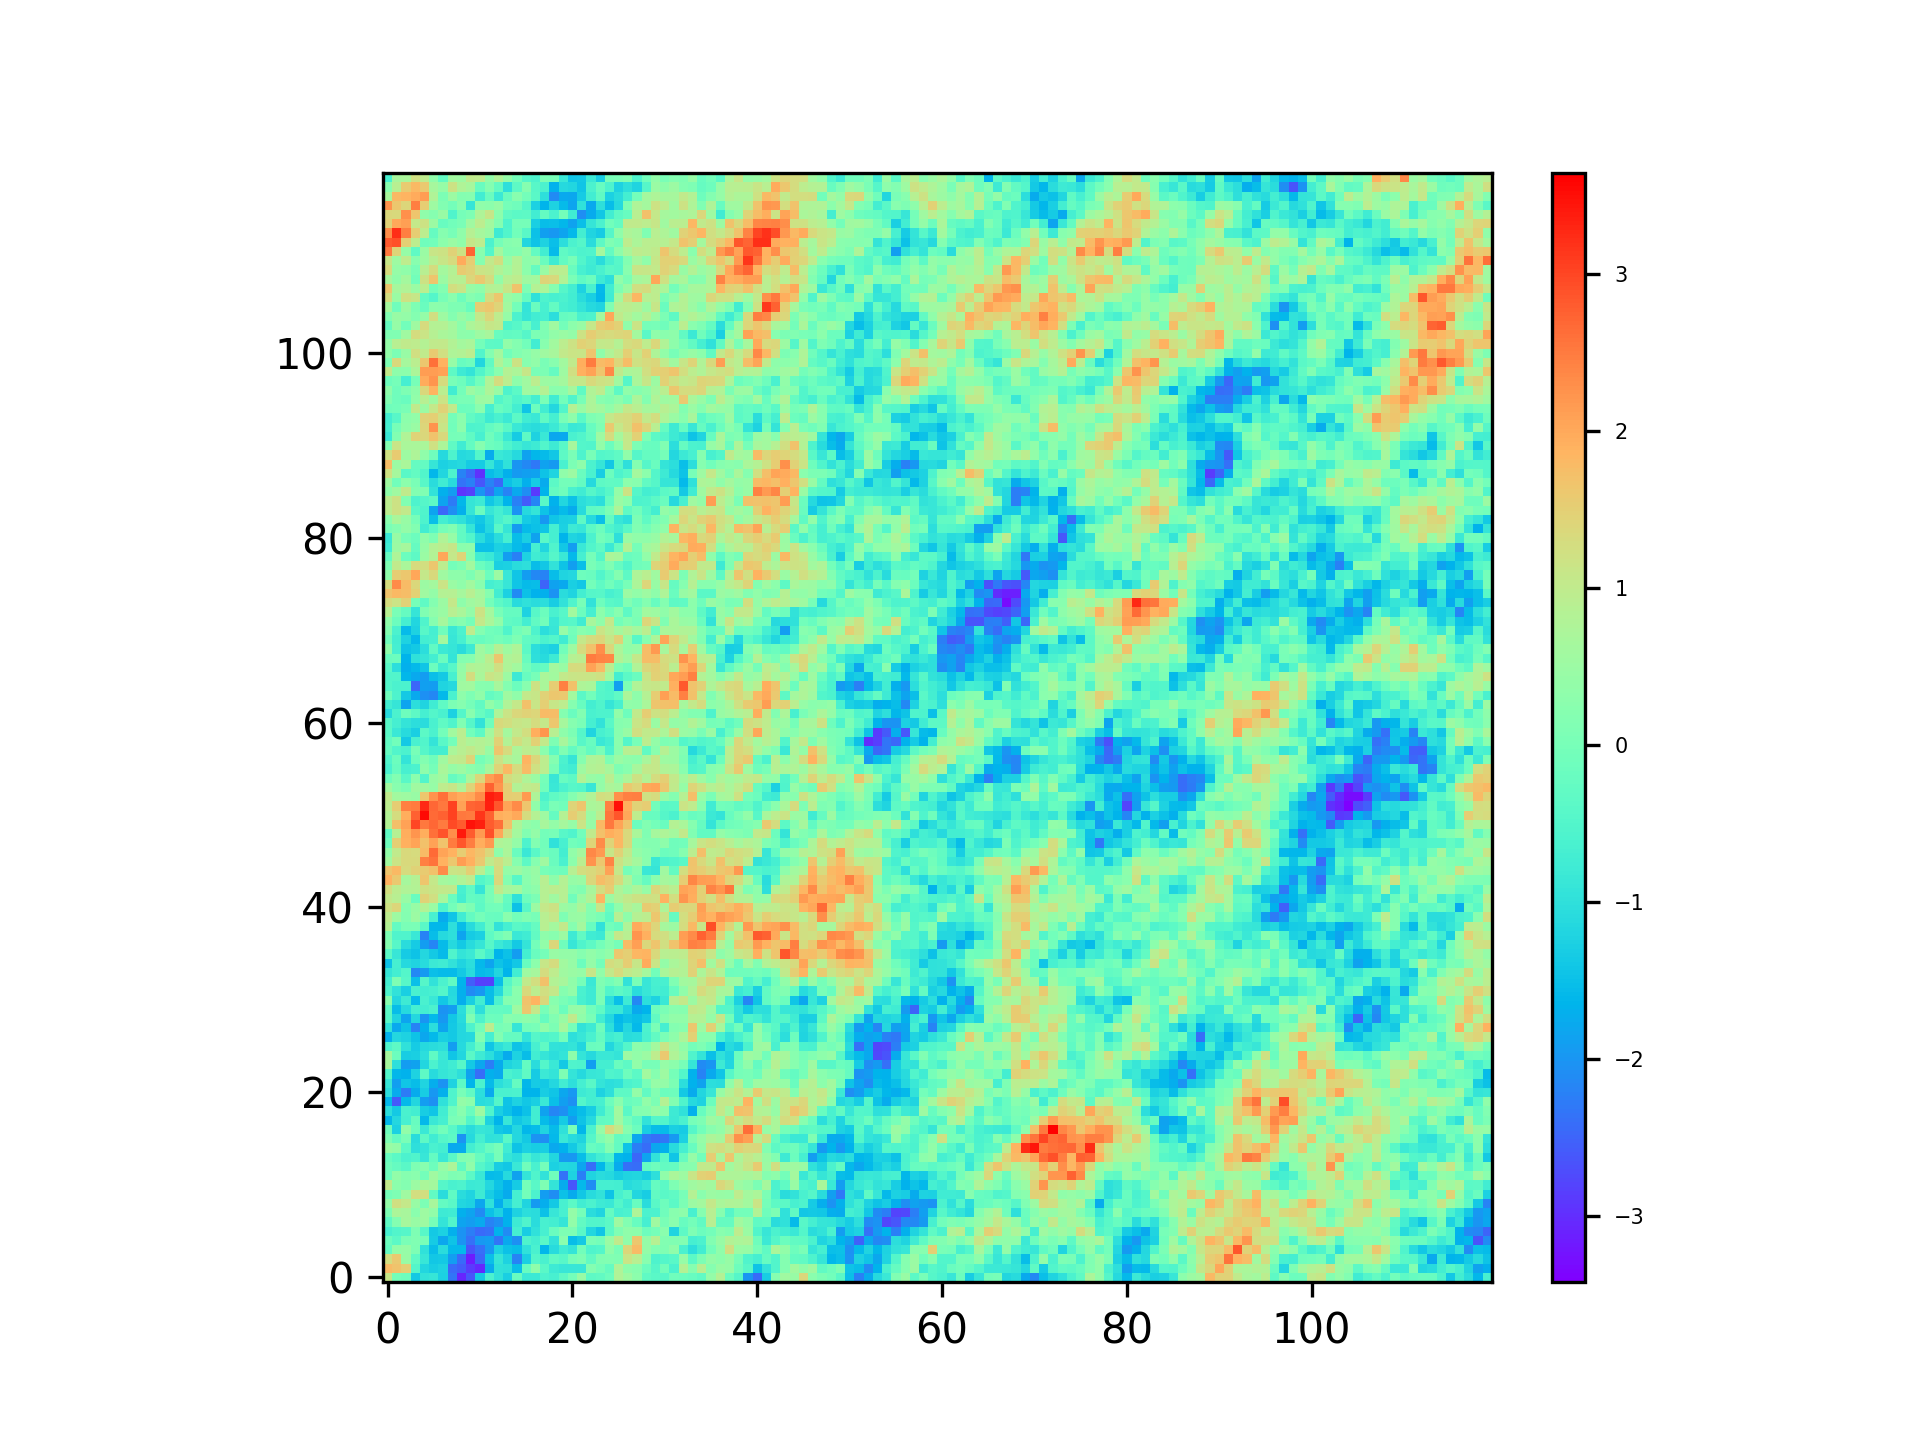
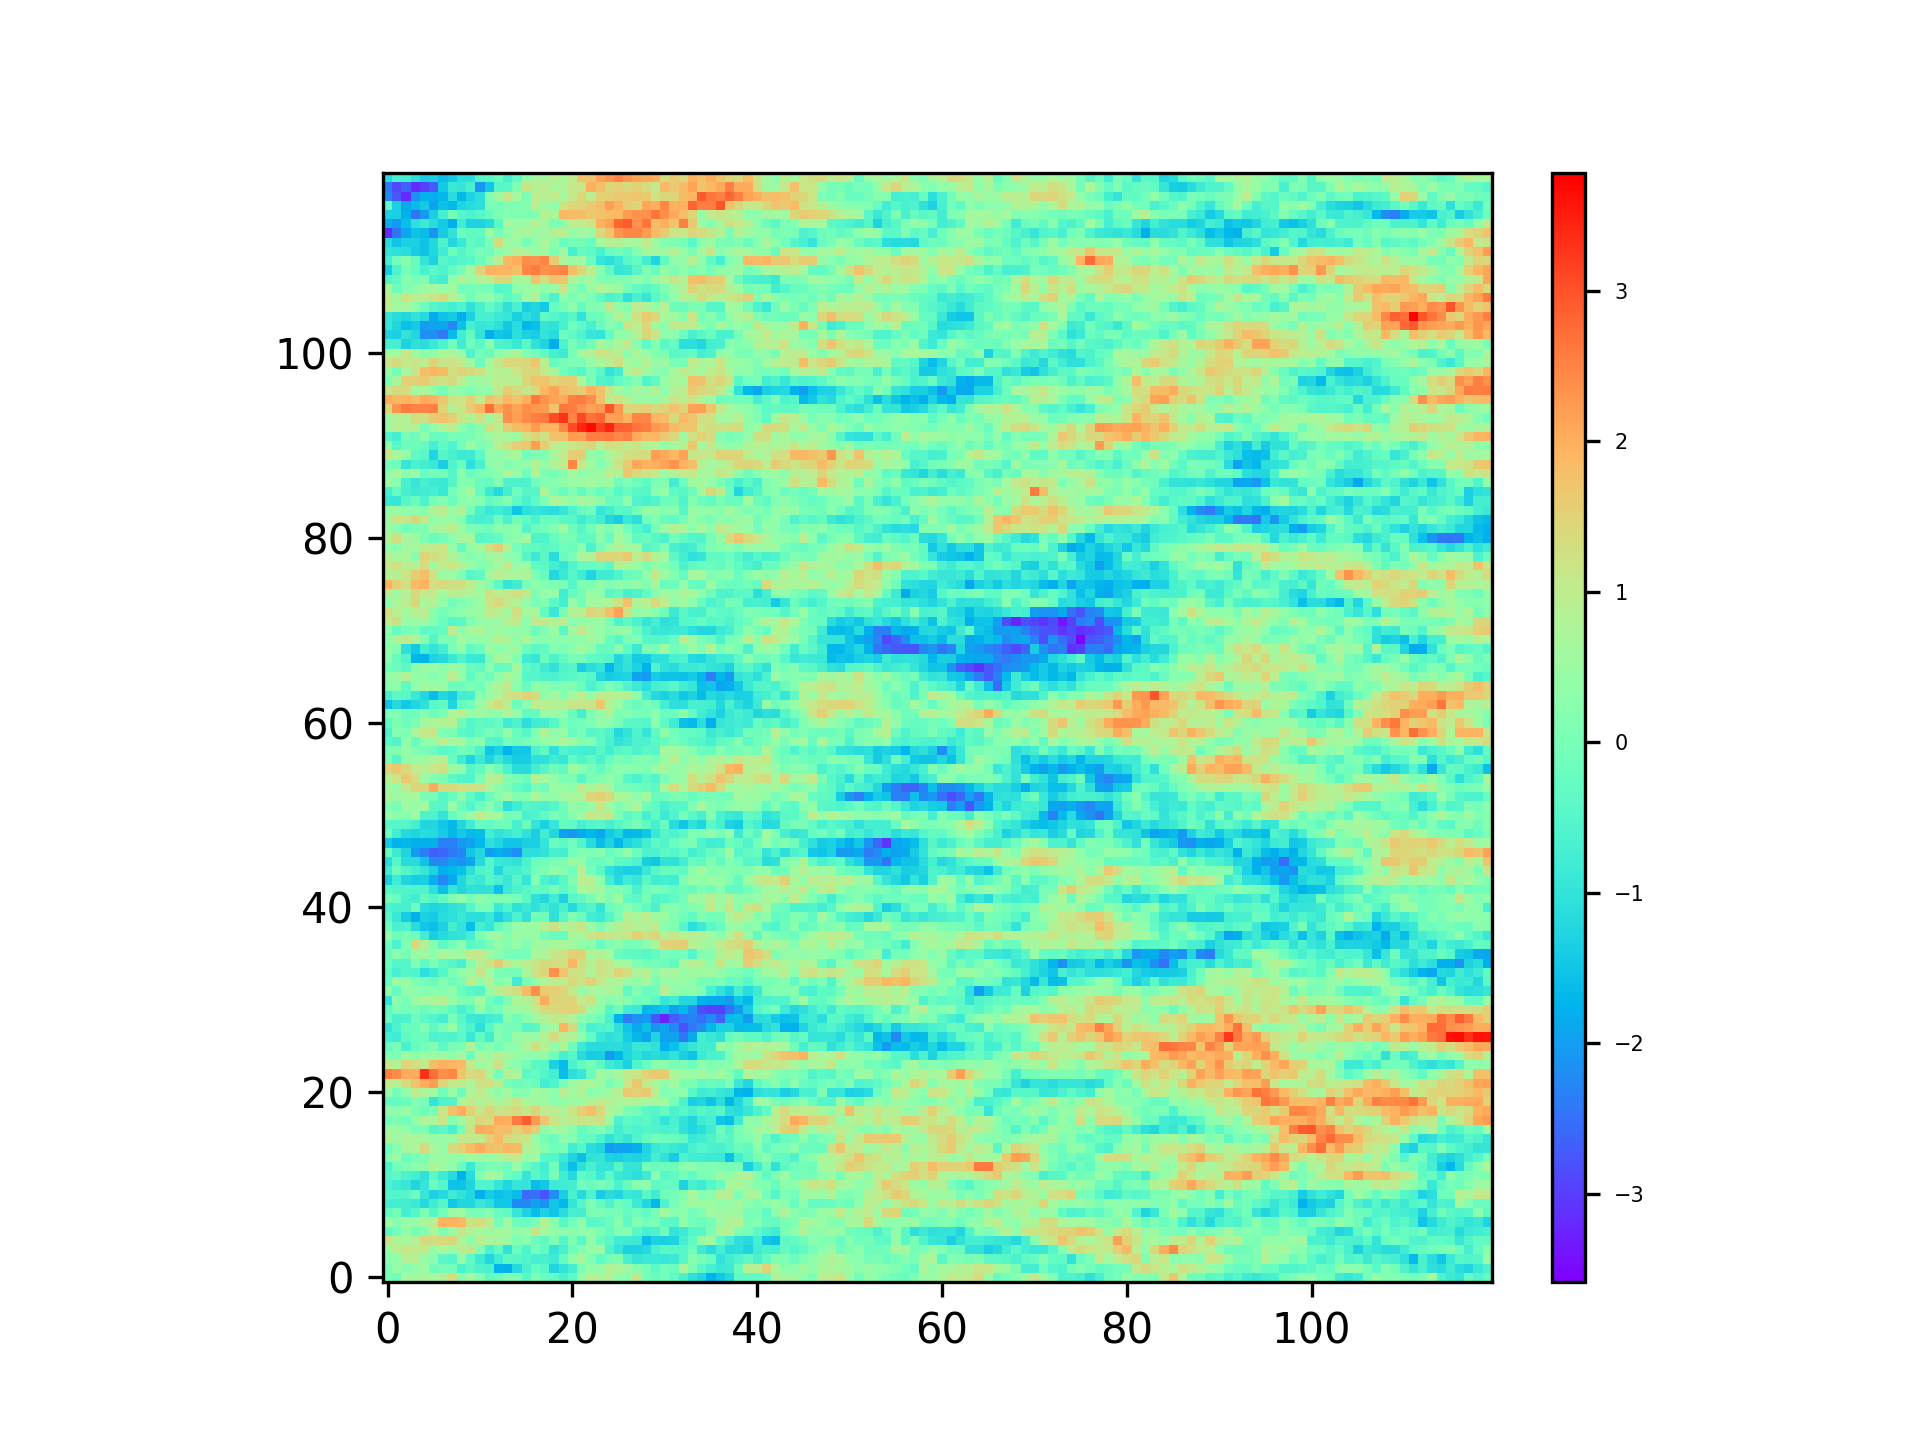
updated TPG images

diff --git a/makeTruncBiGaussian.py b/makeTruncBiGaussian.py
@@ -5,11 +5,14 @@ import numpy as np
 from matplotlib import pyplot as plt
 from mpl_toolkits.axes_grid1 import make_axes_locatable
 
-# Simulate two continuous gaussian realizations using different variogram models
-gaussian1 = tpg.genGaussianSim_2D_aniso(120, 120, 0.5, 0.5, 'exponential', 15, 0.3, 0)
-gaussian2 = tpg.genGaussianSim_2D_aniso(120, 120, 0.5, 0.5, 'exponential', 10, 0.5, 45)
+# Generate two continuous gaussian realizations using different variogram models
+#gaussian1 = tpg.genGaussianSim_2D_aniso(120, 120, 0.5, 0.5, 'exponential', 15, 0.3, 0)
+#gaussian2 = tpg.genGaussianSim_2D_aniso(120, 120, 0.5, 0.5, 'exponential', 10, 0.5, 45)
 
-# Display each generated gaussian realizations
+gaussian1 = np.loadtxt('gaussian1.txt') # to load preexisting files of gaussian realizations
+gaussian2 = np.loadtxt('gaussian2.txt')
+
+# Display each gaussian realization
 plt.close()
 fig, ax = plt.subplots()
 im = plt.imshow(gaussian1, origin='lower', cmap='rainbow')
@@ -34,7 +37,7 @@ plt.close()
 # Truncate according to given rock type rule 
 #thresholdLines = tpg.randTruncLines() # generate two random threshold lines 
 #faciesMap = tpg.truncBiGaussian24facies(gaussian1, gaussian2, thresholdLines) # thresholds given as lines
-faciesMap = tpg.truncBiGaussian23facies(gaussian1, gaussian2, 2, [-1, 0]) # thresholds given as list of values
+faciesMap = tpg.truncBiGaussian23facies(gaussian1, gaussian2, 2, [-0.5, 0,2]) # thresholds given as list of values
 
 # Display the derived facies map with a discrete colorbar 
 plt.close()

diff --git a/tpg.py b/tpg.py
@@ -709,4 +709,6 @@ def truncBiGaussian23facies(g1, g2, rule_type, thresholds):
 	return faciesGrid
 
 
+def genTruncMap():
 
+	return
